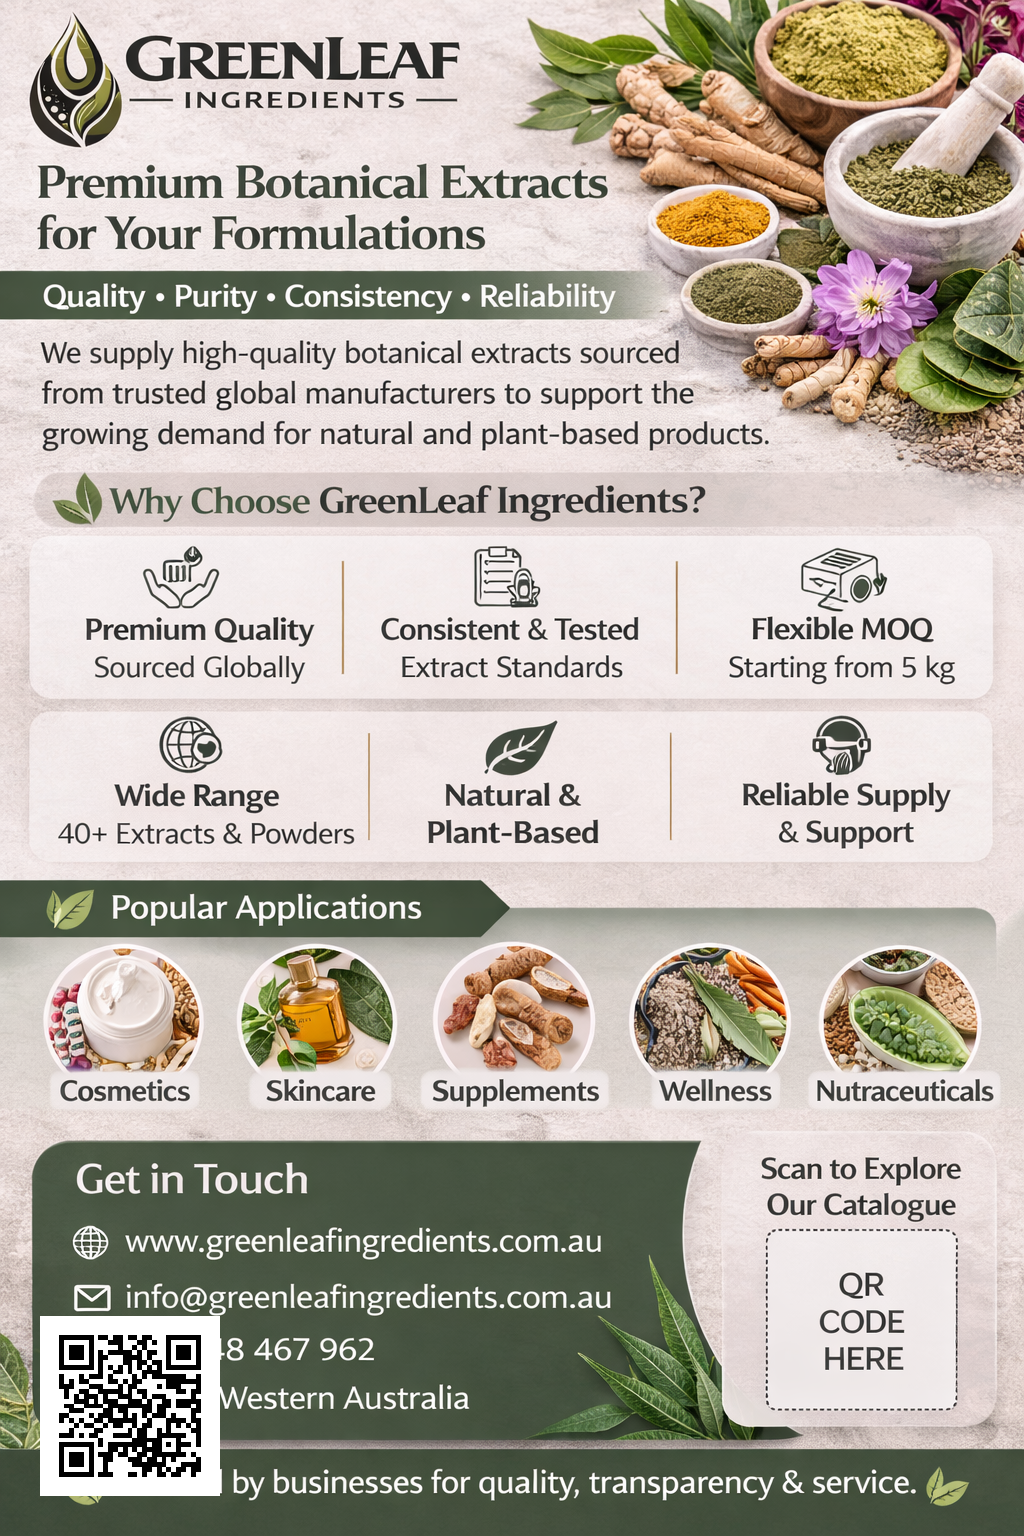
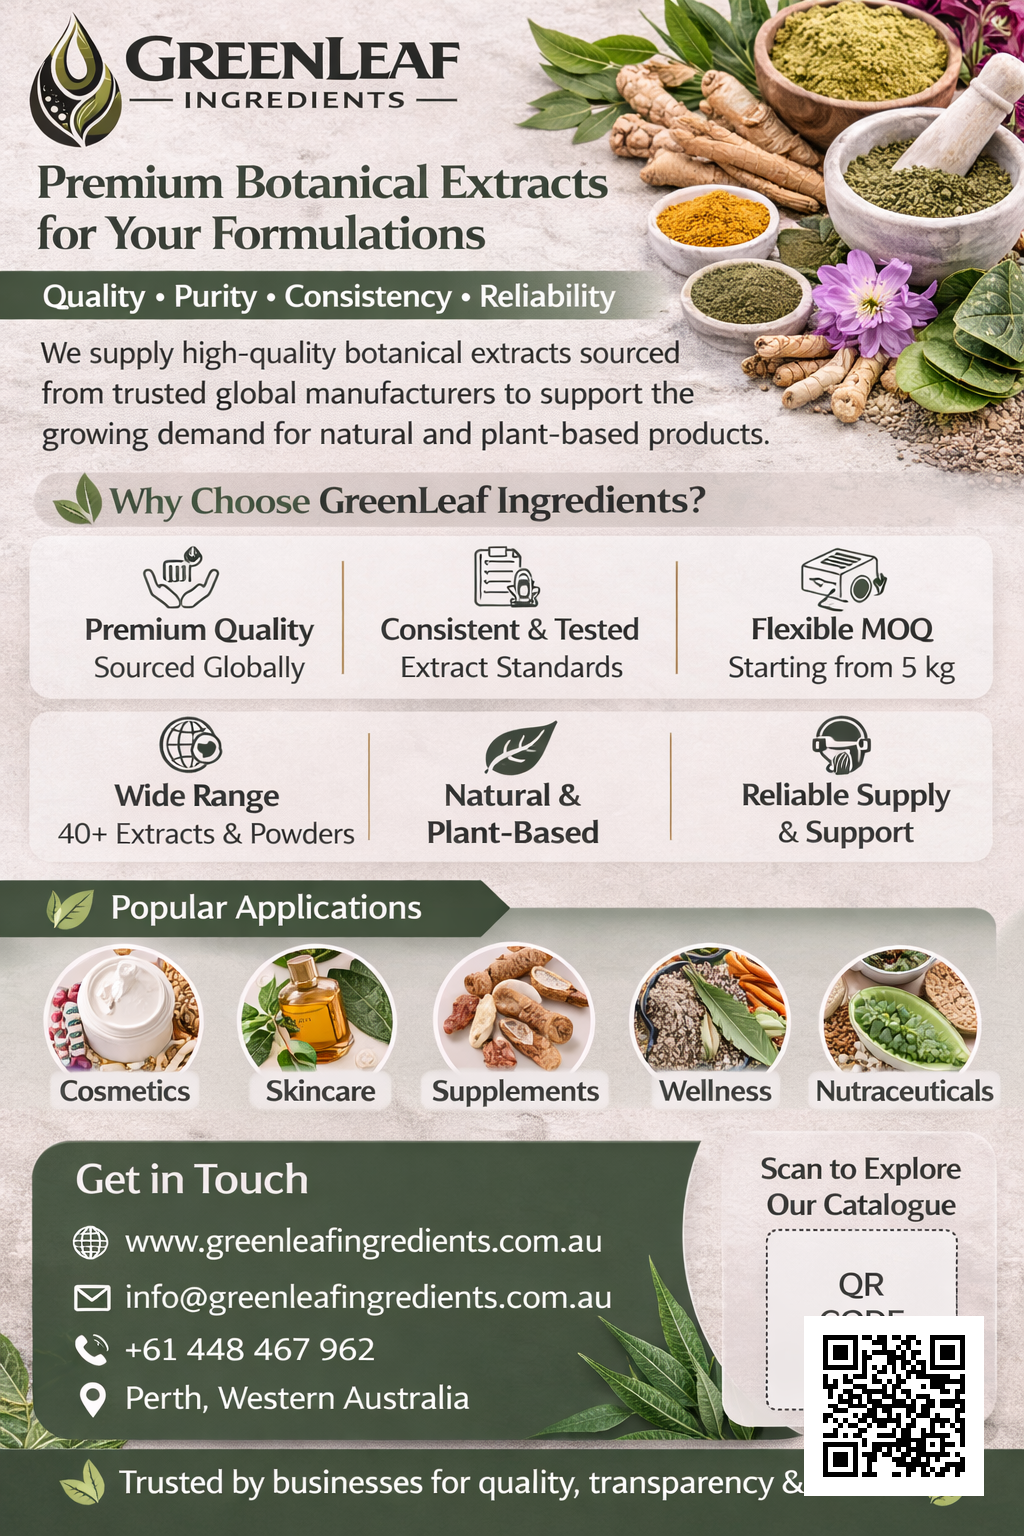
Move QR code to bottom right corner

Changed region(s): [[0.7812, 0.8438, 0.9688, 1.0], [0.0312, 0.8438, 0.2188, 1.0]]

diff --git a/add_qr_to_front_flyer.py b/add_qr_to_front_flyer.py
@@ -18,12 +18,12 @@ qr_img = qrcode.make(url)
 qr_size = 180
 qr_img = qr_img.resize((qr_size, qr_size))
 
-# Position QR code at bottom left with margin
+# Position QR code at bottom right with margin
 margin = 40
-x = margin
+x = width - qr_size - margin
 y = height - qr_size - margin
 
-print(f"Placing QR code at bottom left: x={x}, y={y}")
+print(f"Placing QR code at bottom right: x={x}, y={y}")
 
 # Paste QR code
 base.paste(qr_img, (x, y))
